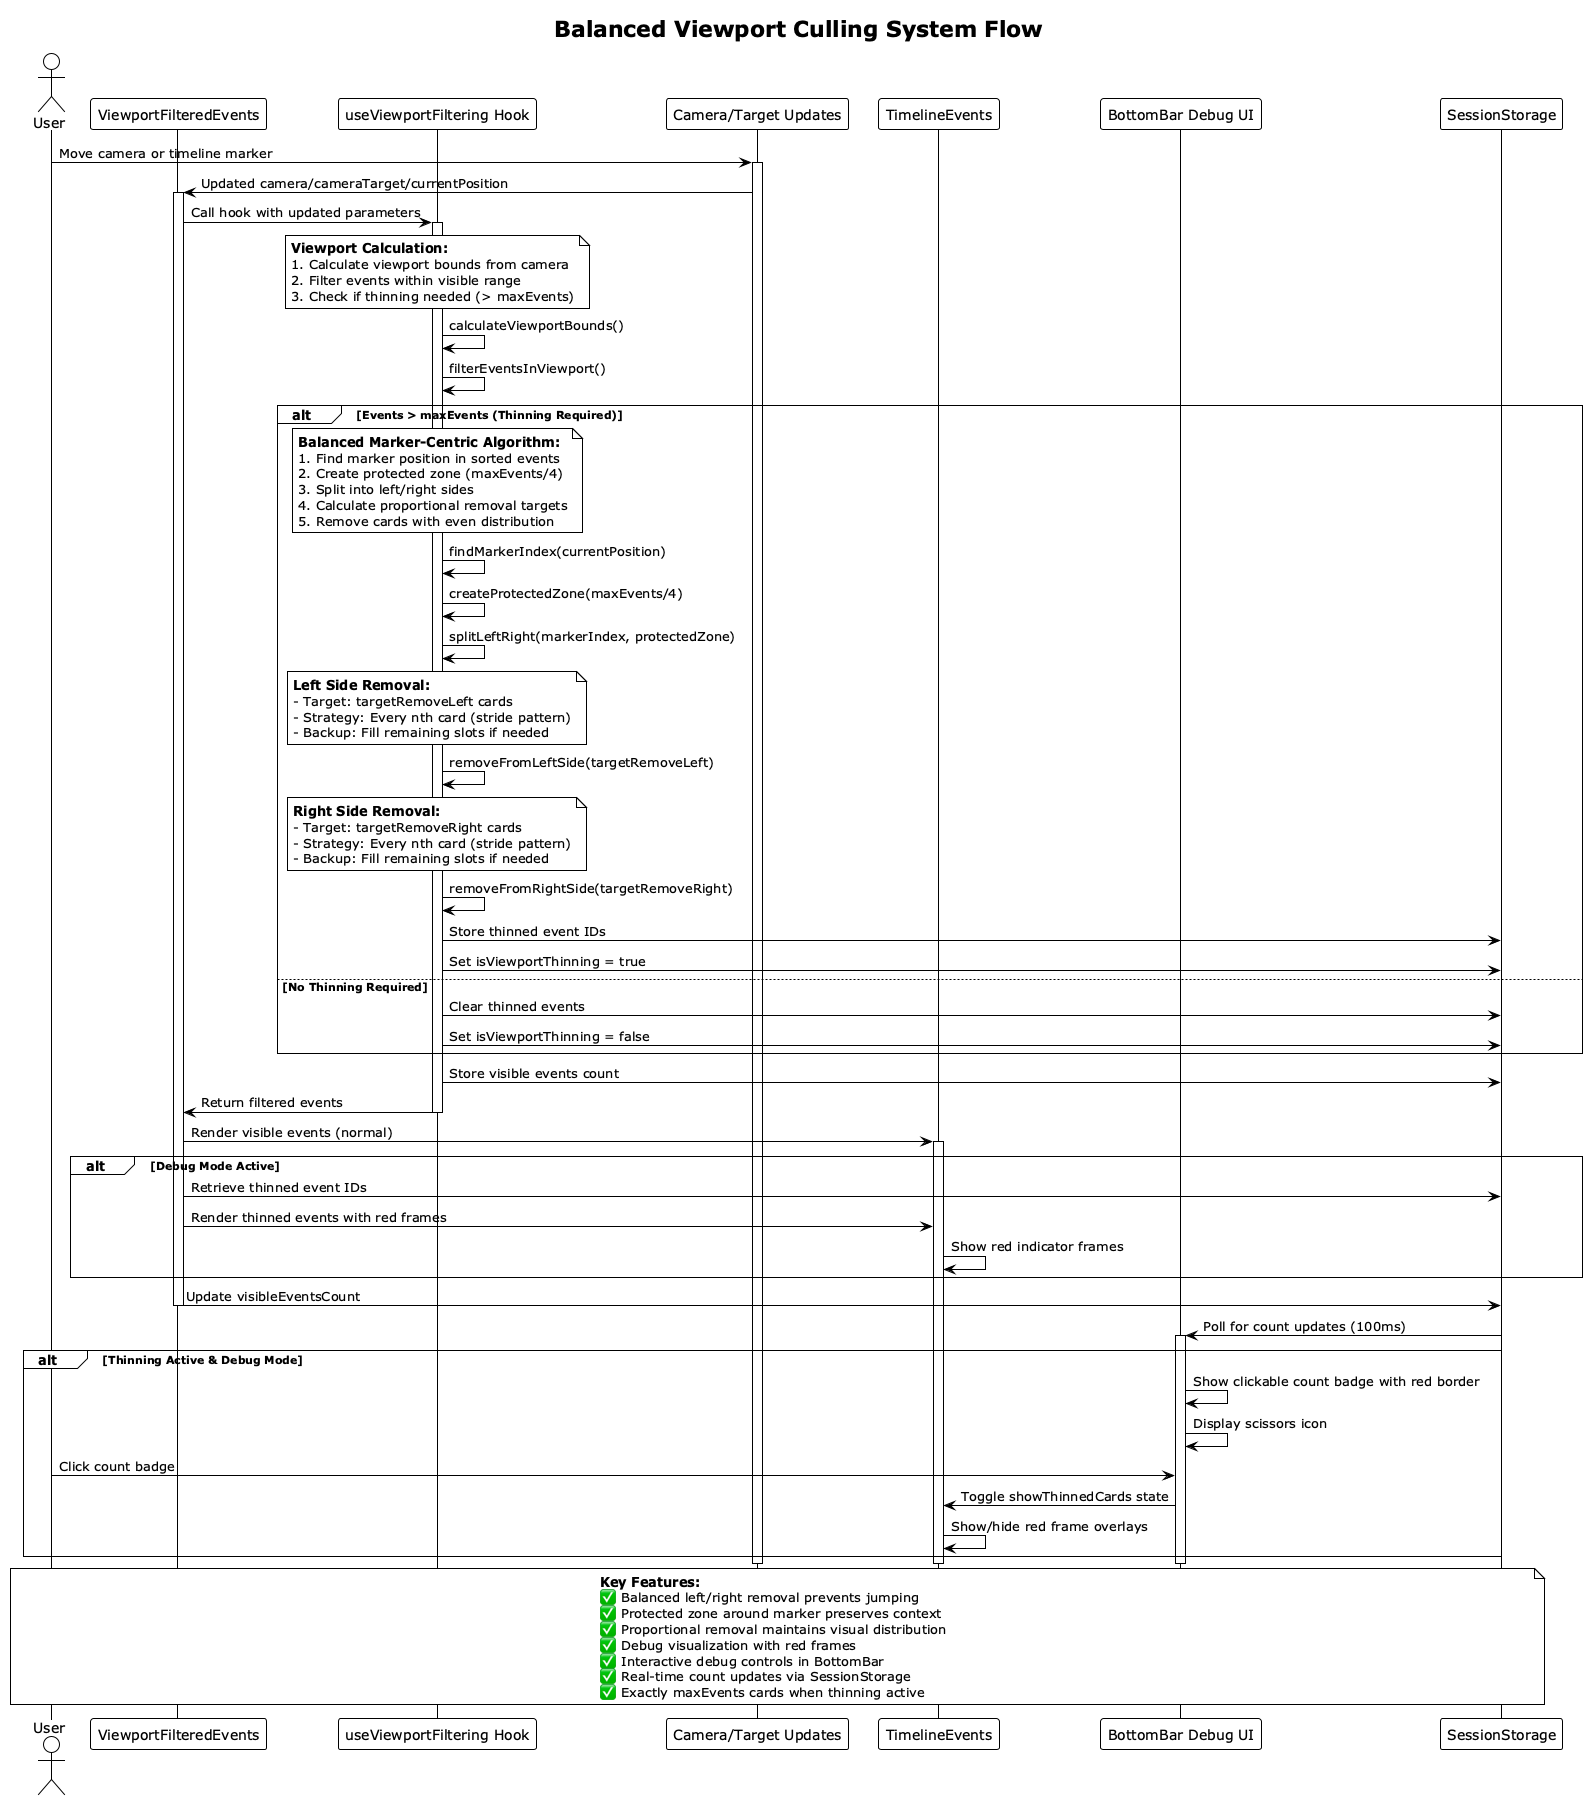
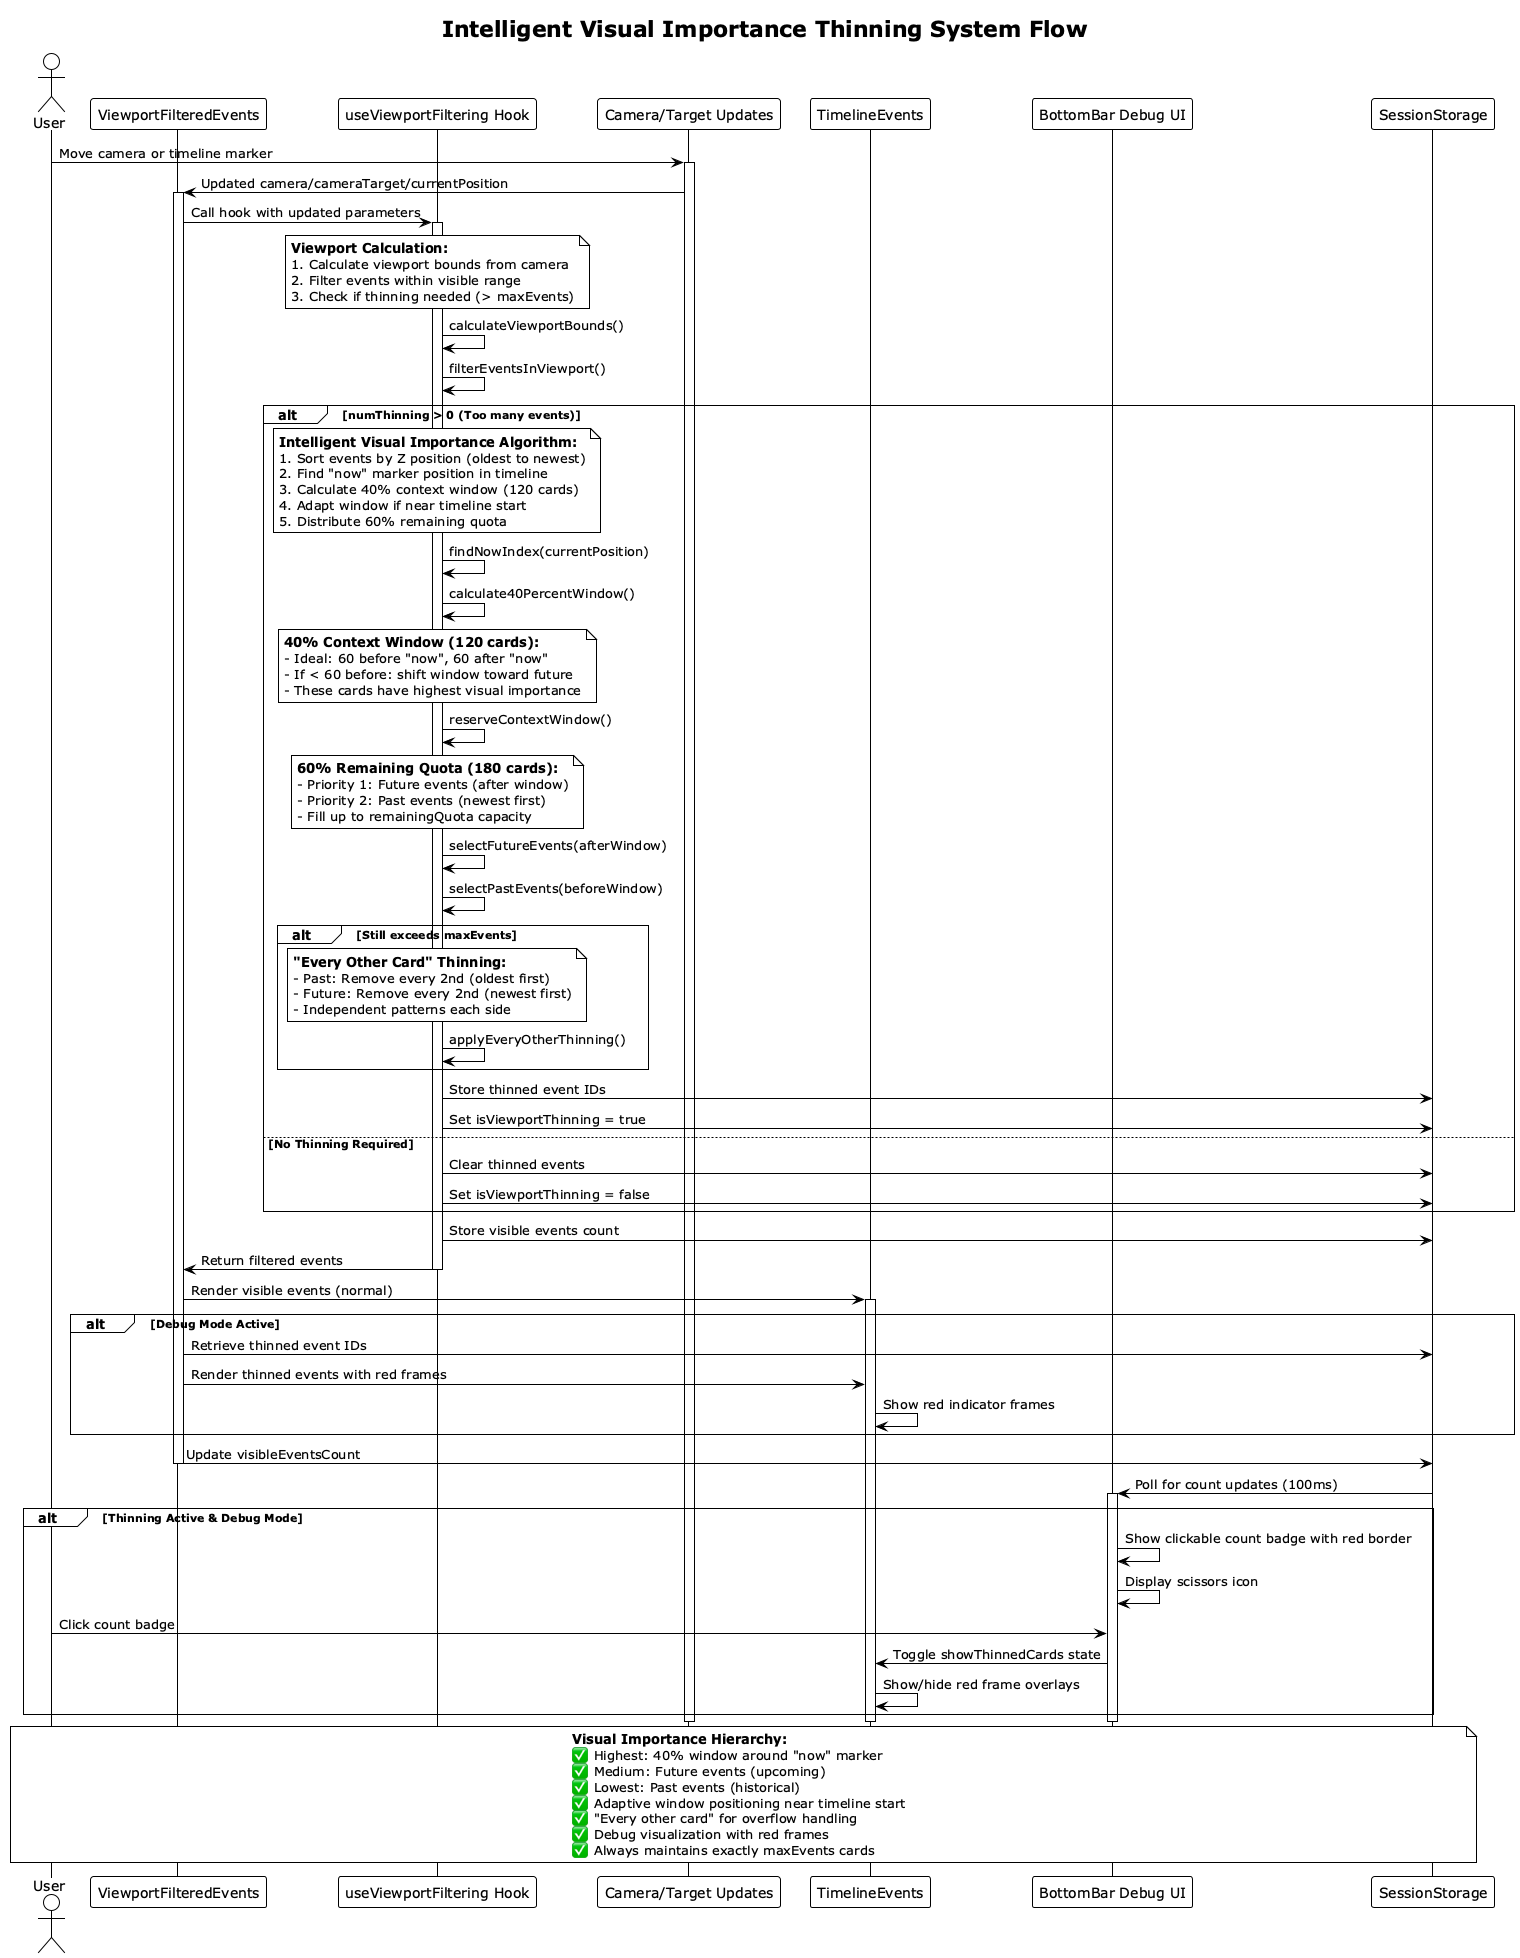
docs: updated culling/thinning documentation

diff --git a/docs/viewport-culling.md b/docs/viewport-culling.md
@@ -6,34 +6,67 @@ The Timeline Visualization application implements a sophisticated **Balanced Vie
 
 ![Viewport Culling Flow](images/viewport-culling-flow.png)
 
-## Core Algorithm: Balanced Marker-Centric Thinning
+## Core Algorithm: Intelligent Visual Importance Thinning
 
 ### Problem Statement
 
 When displaying large numbers of timeline events (git commits + spec changes), Three.js performance degrades significantly. Simply removing random cards creates visual discontinuity and poor user experience, especially when the timeline marker moves.
 
-### Solution: Balanced Left-Right Distribution
+### Solution: Visual Importance-Based Thinning
 
-The algorithm splits the timeline into left and right sides relative to the current marker position, then removes cards proportionally from each side using stride patterns.
+The algorithm implements a sophisticated thinning strategy that preserves visual importance based on temporal relevance to the "now" marker position, ensuring the most contextually important cards remain visible.
 
 ### Key Features
 
-#### 1. Protected Zone
-- **Size**: `maxEvents / 4` cards around the timeline marker
-- **Purpose**: Ensures context around the current position is always visible
-- **Behavior**: Cards within this zone are never removed, regardless of culling pressure
+#### 1. 40% Context Window Around "Now"
 
-#### 2. Proportional Removal
+- **Size**: 40% of `maxEvents` (120 cards for maxEvents=300)
+- **Ideal Distribution**: 20% before "now", 20% after "now" (60 cards each side)
+- **Adaptive Behavior**: If fewer than 60 cards exist before "now", the window shifts toward the future while maintaining as close to 20% before as possible
+- **Purpose**: Ensures maximum context around the current timeline position
+
+#### 2. Visual Importance Hierarchy
+
+Cards are prioritized based on their temporal relationship to the "now" marker:
+
+1. **Highest Priority**: Cards within the 40% window around "now"
+2. **Medium Priority**: Future cards (after the window) - representing upcoming events
+3. **Lowest Priority**: Past cards (before the window) - representing historical events
+
+#### 3. Intelligent Distribution Algorithm
+
 ```typescript
-const leftProportion = leftSideEvents.length / totalRemovableEvents;
-const targetRemoveLeft = Math.round(targetToRemove * leftProportion);
-const targetRemoveRight = targetToRemove - targetRemoveLeft;
+// Calculate the 40% window
+const windowSize = Math.floor(0.4 * maxEvents); // 120 cards
+const idealBeforeNow = Math.floor(0.2 * maxEvents); // 60 cards
+const idealAfterNow = windowSize - idealBeforeNow; // 60 cards
+
+// Adaptive window positioning
+if (cardsBeforeNow >= idealBeforeNow) {
+  windowStart = actualNowIndex - idealBeforeNow;
+  windowEnd = actualNowIndex + idealAfterNow;
+} else {
+  // Shift window toward future when near timeline start
+  windowStart = actualNowIndex - cardsBeforeNow;
+  windowEnd = actualNowIndex + (windowSize - cardsBeforeNow);
+}
 ```
 
-#### 3. Stride-Based Distribution
-- **Left Side**: Removes every `nth` card where `n = floor(leftEvents.length / targetRemoveLeft)`
-- **Right Side**: Removes every `nth` card where `n = floor(rightEvents.length / targetRemoveRight)`
-- **Fallback**: Additional passes ensure exact target counts are met
+#### 4. 60% Remaining Quota Distribution
+
+After reserving the 40% window, the remaining 60% of cards (180 for maxEvents=300) are filled:
+
+1. **First Priority**: Future events (after the window) - fill as many as possible
+2. **Second Priority**: Past events (before the window) - fill with newest past events first
+
+#### 5. "Every Other Card" Overflow Thinning
+
+When the selected cards still exceed `maxEvents`:
+
+- Removes every 2nd card using independent patterns for each side
+- **Past Side**: Starts with oldest cards, works toward the window
+- **Future Side**: Starts with newest cards, works toward the window
+- Ensures balanced visual distribution without clustering
 
 ## Implementation Details
 
@@ -60,33 +93,58 @@ interface ViewportFilteringConfig {
    - Expand viewport if insufficient events are found
 
 2. **Thinning Decision**
+
    ```typescript
-   if (filteredEvents.length > maxEvents) {
-     // Trigger balanced thinning algorithm
+   const numThinning = eventsInViewport.length - maxEvents;
+   if (numThinning > 0) {
+     // Trigger intelligent thinning algorithm
    }
    ```
 
-3. **Marker Position Detection**
+3. **"Now" Marker Position Detection**
+
    ```typescript
-   const markerIndex = eventsWithZ.findIndex(ep => ep.z >= currentPosition);
-   const actualMarkerIndex = markerIndex === -1 ? eventsWithZ.length : markerIndex;
+   const nowIndex = sortedByZ.findIndex(ep => ep.z >= nowZ);
+   const actualNowIndex = nowIndex === -1 ? sortedByZ.length : nowIndex;
    ```
 
-4. **Side Splitting**
+4. **40% Context Window Calculation**
+
    ```typescript
-   const leftSideEvents = eventsWithZ.slice(0, actualMarkerIndex - protectedZoneSize);
-   const rightSideEvents = eventsWithZ.slice(actualMarkerIndex + protectedZoneSize);
+   const windowSize = Math.floor(0.4 * maxEvents); // 120 cards
+   const idealBeforeNow = Math.floor(0.2 * maxEvents); // 60 cards
+   
+   // Adaptive window positioning based on available cards
+   if (cardsBeforeNow >= idealBeforeNow) {
+     windowStart = actualNowIndex - idealBeforeNow;
+     windowEnd = actualNowIndex + idealAfterNow;
+   } else {
+     // Shift window toward future
+     windowStart = Math.max(0, actualNowIndex - cardsBeforeNow);
+     windowEnd = actualNowIndex + (windowSize - cardsBeforeNow);
+   }
    ```
 
-5. **Proportional Removal Calculation**
-   - Calculate proportion of removable events on each side
-   - Distribute removal targets proportionally
-   - Ensure both sides contribute to thinning
+5. **60% Remaining Quota Distribution**
 
-6. **Stride-Based Removal**
-   - Calculate optimal stride for each side
-   - Remove cards at regular intervals
-   - Apply backup removal if stride doesn't hit target
+   ```typescript
+   const remainingQuota = maxEvents - reservedEvents.length;
+   
+   // Prioritize future events
+   const futureQuota = Math.min(remainingQuota, afterWindow.length);
+   selectedAfterWindow = afterWindow.slice(0, futureQuota);
+   
+   // Fill remaining with newest past events
+   const pastQuota = remainingQuota - selectedAfterWindow.length;
+   selectedBeforeWindow = beforeWindow.slice(-pastQuota);
+   ```
+
+6. **"Every Other Card" Overflow Thinning**
+
+   - Apply when total selected events still exceed `maxEvents`
+   - Remove every 2nd card from past (oldest first)
+   - Then remove every 2nd card from future (newest first)
+   - Independent patterns for each side
 
 ## Debug Visualization
 
@@ -112,36 +170,41 @@ When debug mode is active and thinning occurs:
 The system provides comprehensive debug logging when `debugMode: true`:
 
 ```typescript
-logger.debug('Starting balanced thinning', {
-  totalEvents: eventsWithZ.length,
-  targetToRemove,
-  markerIndex: actualMarkerIndex,
-  protectedZoneSize,
-  leftSideEvents: leftSideEvents.length,
-  rightSideEvents: rightSideEvents.length,
-  targetRemoveLeft,
-  targetRemoveRight,
-  markerPosition: currentPosition.toFixed(1)
+logger.debug('Smart thinning applied', {
+  originalCount: eventsInViewport.length,
+  finalCount: filtered.length,
+  windowSize,
+  windowStart,
+  windowEnd,
+  reservedCount: reservedEvents.length,
+  beforeWindowSelected: selectedBeforeWindow.length,
+  afterWindowSelected: selectedAfterWindow.length,
+  strategy: 'Smart importance-based with now-marker awareness'
 });
 ```
 
 ## Performance Impact
 
 ### Before Implementation
+
 - **Rendered Objects**: 800+ timeline cards
 - **Frame Rate**: 15-30 FPS with stuttering
 - **Memory Usage**: Continuously increasing
 - **User Experience**: Laggy interactions, poor responsiveness
 
 ### After Implementation
+
 - **Rendered Objects**: 300 maximum (75-90% reduction)
 - **Frame Rate**: Consistent 60 FPS
 - **Memory Usage**: Stable, no leaks
 - **User Experience**: Smooth interactions, responsive camera controls
 
 ### Key Metrics
+
 - **Viewport Filtering**: 150ms update throttle
-- **Protected Zone**: 75 cards around marker (for maxEvents=300)
+- **Context Window**: 120 cards around "now" marker (40% of maxEvents=300)
+- **Ideal Distribution**: 60 cards before, 60 cards after "now" (20% each)
+- **Remaining Quota**: 180 cards (60% of maxEvents=300)
 - **Thinning Threshold**: Triggered when > 300 events in viewport
 - **Real-time Updates**: SessionStorage polling every 100ms
 
@@ -185,7 +248,9 @@ const handleVisibleCountClick = () => {
 | `paddingFactor` | 1.0 | Viewport padding multiplier | Higher = smoother transitions, more culling |
 | `updateThrottleMs` | 150 | Update frequency | Lower = more responsive, higher CPU usage |
 | `windowSize` | 110 | Viewport size (world units) | Fixed optimal size for timeline scale |
-| `protectedZoneSize` | `maxEvents/4` | Cards protected around marker | Higher = more context, less culling effectiveness |
+| Context Window | 40% of `maxEvents` | Cards preserved around "now" | Higher = more temporal context |
+| Ideal Before/After | 20% each | Distribution around "now" | Ensures balanced context |
+| Remaining Quota | 60% of `maxEvents` | Cards for rest of timeline | Prioritizes future over past |
 
 ### Environment Considerations
 
@@ -199,14 +264,16 @@ const handleVisibleCountClick = () => {
 ### Potential Improvements
 
 1. **Adaptive Culling**: Adjust `maxEvents` based on device performance
-2. **Temporal Weighting**: Prefer recent commits over older ones
-3. **User Preference**: Allow users to configure culling aggressiveness
+2. **Configurable Context Window**: Allow users to adjust the 40/60 split
+3. **Milestone Preservation**: Never cull major releases or tagged commits
 4. **LOD System**: Different detail levels for distant cards
 5. **Predictive Loading**: Pre-load cards in camera movement direction
+6. **Importance Scoring**: Weight cards by commit size, author, or impact
 
 ### Performance Monitoring
 
 Monitor these metrics to assess culling effectiveness:
+
 - Frame rate during camera movements
 - Memory usage over time
 - User-reported visual quality
